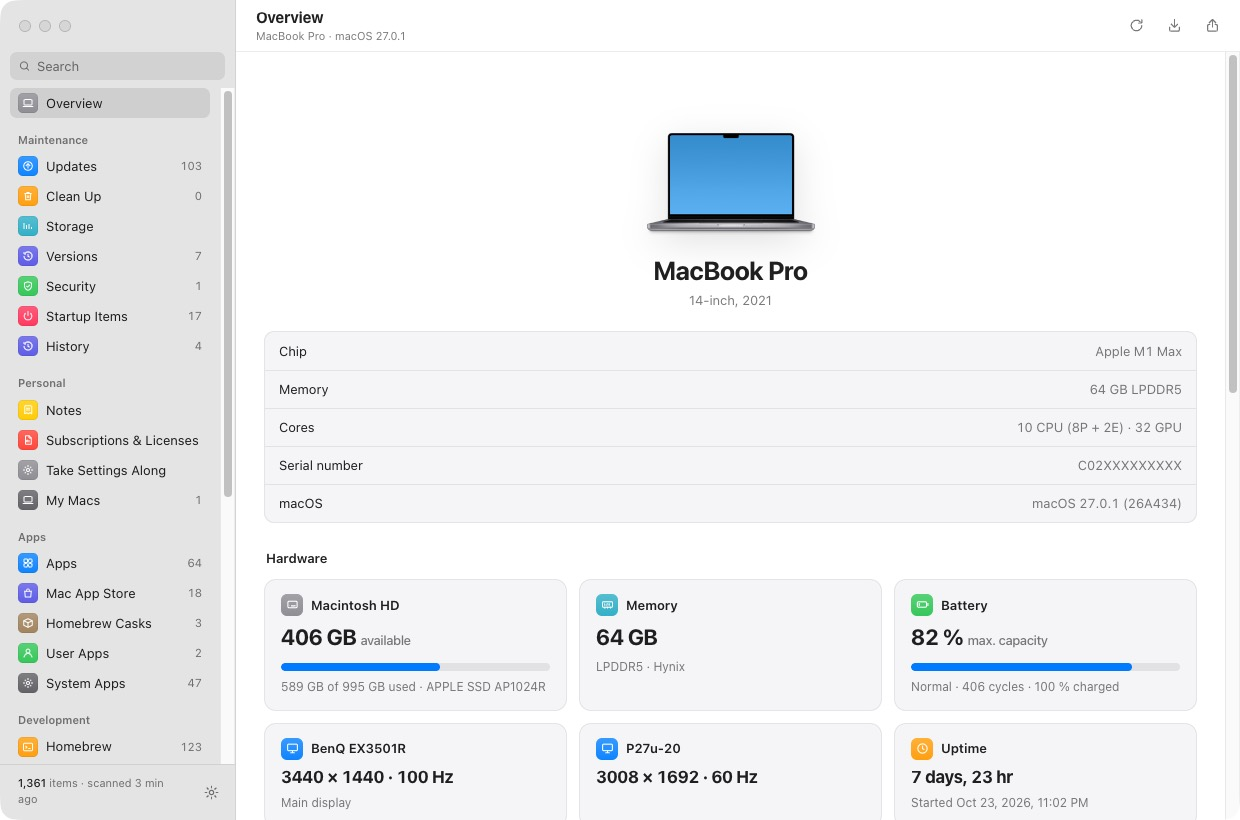
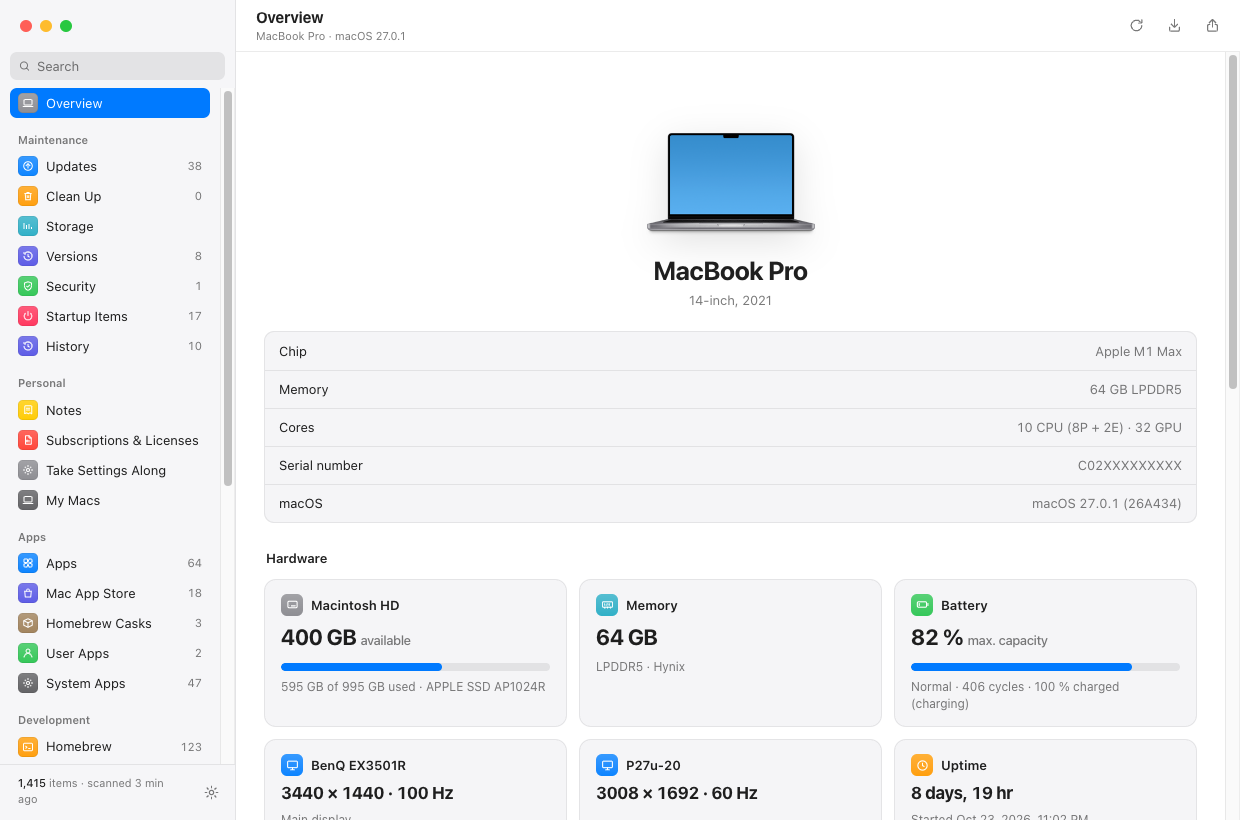
Refresh README, screenshots and DMG notes for 1.3
- New screenshots, plus running updates in the app, the System tag
  and Quick Open
- README and DMG notes describe in-app runs, What's New and the
  updater's signature check
- Updates/Storage texts no longer mention Terminal; centre icon tiles
  in Quick Open and dialogs

diff --git a/electron/renderer/app.js b/electron/renderer/app.js
@@ -1056,7 +1056,7 @@ function pageUpdates() {
     </div>
     ${u.items.some((i) => i.cmd) ? `<div class="card script-card">
       <div class="ch"><span class="tile" style="${tileBg("terminal")}">${svg("terminal")}</span>${t("Ausgewählte aktualisieren")}</div>
-      <div class="muted">${t("Aktualisiert die ausgewählten Pakete per Homebrew, App Store, npm, pip und gem in einem Terminal-Fenster.")}</div>
+      <div class="muted">${t("Aktualisiert die ausgewählten Pakete per Homebrew, App Store, npm, pip und gem – direkt in MacAtlas mit Live-Ausgabe.")}</div>
       ${pickSummary("updates")}
       <div class="btns" style="justify-content:flex-start;margin-top:6px">
         <button class="btn primary" data-do="runupdates"${scr.count ? "" : " disabled"}>${svg("terminal")} ${t("Ausführen …")}</button>
@@ -1762,7 +1762,7 @@ function pageStorage() {
       ${st ? statCard("disk", `${nf.format(st.free_gb)} GB`, t("Frei auf {n}", { n: esc(st.name || "Macintosh HD") }), t("{u} GB von {t} GB belegt", { u: nf.format(st.used_gb), t: nf.format(st.total_gb) })) : ""}
     </div>
     ${rows.some((r) => r.cmd && r.bytes) ? `<div class="card script-card"><div class="ch"><span class="tile" style="${tileBg("cleanup")}">${svg("cleanup")}</span>${t("Ausgewählte aufräumen")}</div>
-      <div class="muted">${t("Führt die Befehle der ausgewählten Einträge nacheinander im Terminal aus – nach einer Rückfrage. Sichere Caches sind vorausgewählt, alles mit „prüfen\" musst du bewusst anhaken.")}</div>
+      <div class="muted">${t("Führt die Befehle der ausgewählten Einträge nacheinander aus – nach einer Rückfrage, direkt in MacAtlas. Sichere Caches sind vorausgewählt, alles mit „prüfen\" musst du bewusst anhaken.")}</div>
       ${pickSummary("storage")}
       <div class="btns" style="justify-content:flex-start;margin-top:6px"><button class="btn primary" data-do="cleanpicked"${picked.length ? "" : " disabled"}>${svg("terminal")} ${picked.length ? t("{s} freigeben", { s: fmtBytes(pickedBytes) }) : t("Nichts ausgewählt")}</button></div></div>` : ""}
     ${groups}

diff --git a/electron/renderer/i18n.js b/electron/renderer/i18n.js
@@ -358,10 +358,9 @@ const I18N_EN = {
   "Installiert die ausgewählten Einträge per Homebrew, App Store, npm, pip, gem und VS Code. Häkchen entfernen, was du nicht brauchst.":
     "Installs the selected items via Homebrew, App Store, npm, pip, gem and VS Code. Untick what you don't need.",
   "Ausgewählte aktualisieren": "Update Selected",
-  "Aktualisiert die ausgewählten Pakete per Homebrew, App Store, npm, pip und gem in einem Terminal-Fenster.": "Updates the selected packages via Homebrew, App Store, npm, pip and gem in a Terminal window.",
+  "Aktualisiert die ausgewählten Pakete per Homebrew, App Store, npm, pip und gem – direkt in MacAtlas mit Live-Ausgabe.": "Updates the selected packages via Homebrew, App Store, npm, pip and gem – right inside MacAtlas with live output.",
   "Ausgewählte aufräumen": "Clean Up Selected",
-  "Führt die Befehle der ausgewählten Einträge nacheinander im Terminal aus – nach einer Rückfrage. Sichere Caches sind vorausgewählt, alles mit „prüfen\" musst du bewusst anhaken.":
-    "Runs the commands of the selected items one after another in Terminal – after asking. Safe caches are preselected; anything marked “review” has to be ticked on purpose.",
+  "Führt die Befehle der ausgewählten Einträge nacheinander aus – nach einer Rückfrage, direkt in MacAtlas. Sichere Caches sind vorausgewählt, alles mit „prüfen\" musst du bewusst anhaken.": "Runs the commands of the selected items one after another – after asking, right inside MacAtlas. Safe caches are preselected; anything marked “review” has to be ticked on purpose.",
   "{s} freigeben": "Free {s}", "Nichts ausgewählt": "Nothing selected",
   "Was installiert wird, legst du per Häkchen im Vergleich fest.": "Choose what gets installed with the checkboxes on the Compare page.",
   "Mit Update": "With update", "App Store": "App Store", "Ohne Paketquelle": "No package source", "Mit Notiz": "With note",

diff --git a/electron/renderer/index.html b/electron/renderer/index.html
@@ -294,6 +294,10 @@ body.inactive .nav-item.sel .cnt { color: var(--secondary); }
 .row { display: flex; align-items: center; gap: 12px; min-height: 48px; padding: 7px 10px 7px 12px; position: relative; }
 .row + .row { border-top: 1px solid var(--sep); }
 .row:hover { background: var(--fill); }
+/* Base for every icon tile (palette, sheets, settings); rows and the inspector size it below */
+.ricon { display: grid; place-items: center; flex: 0 0 auto; border-radius: 7px; }
+.ricon.glyph { color: #fff; }
+.ricon.glyph svg { width: 58%; height: 58%; stroke-width: 2; }
 .row .ricon { width: 32px; height: 32px; flex: 0 0 auto; display: grid; place-items: center; border-radius: 8px; }
 .row .ricon img { width: 32px; height: 32px; object-fit: contain; }
 .row .ricon.glyph { color: #fff; }

diff --git a/CHANGELOG.de.md b/CHANGELOG.de.md
@@ -2,6 +2,12 @@
 
 Deutsche Fassung von [CHANGELOG.md](CHANGELOG.md) – wird in MacAtlas unter Einstellungen → *Was ist neu* angezeigt.
 
+## Unreleased
+
+- Die Texte auf den Seiten Updates und Speicherplatz sagen nicht mehr, dass die Befehle im Terminal laufen.
+- Behoben: Symbole von Seiten und Ordnern in der Schnellsuche und in Dialogen waren nicht zentriert.
+- README: neue Screenshots (Updates in der App, System-Tag, Schnellsuche).
+
 ## 1.3.1
 
 - Erstes veröffentlichtes Release der Änderungen aus 1.3.0 (der 1.3.0-Build wurde durch einen fehlgeschlagenen UI-Test gestoppt und nie veröffentlicht).

diff --git a/CHANGELOG.md b/CHANGELOG.md
@@ -2,6 +2,12 @@
 
 German version: [CHANGELOG.de.md](CHANGELOG.de.md) – shown in MacAtlas under Settings → *What's New*.
 
+## Unreleased
+
+- Texts on the Updates and Storage pages no longer say the commands run in Terminal.
+- Fix: icons of pages and folders in Quick Open and in dialogs were not centred.
+- README: new screenshots (running updates inside the app, the System tag, Quick Open).
+
 ## 1.3.1
 
 - First published release of the 1.3 changes below (the 1.3.0 build was stopped by a failing UI test and never released).
